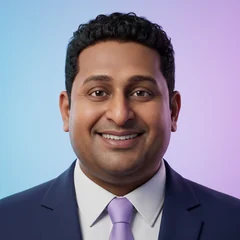
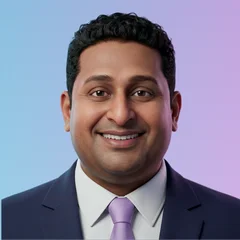
Director portraits: same framing and colour grading, real photos on home and About

diff --git a/about.html b/about.html
@@ -90,8 +90,8 @@
 <div class="wrap">
 <div class="secHead"><h2 class="l split" id="h-a3">The people leading it</h2><p class="mid ink2 r">Over 20 years of experience between them, across information systems, security, economics and management.</p></div>
 <div class="people">
-<div class="person pCard" style="background:var(--ground)"><div class="ava"><picture><source type="image/webp" srcset="assets/img/team/dilshan-photo-240.webp?v=3 240w, assets/img/team/dilshan-photo-480.webp?v=3 480w" sizes="120px"><img src="assets/img/team/dilshan-photo-480.jpg?v=3" srcset="assets/img/team/dilshan-photo-240.jpg?v=3 240w, assets/img/team/dilshan-photo-480.jpg?v=3 480w" sizes="120px" width="480" height="480" alt="Dilshan Dissanayake" loading="lazy" decoding="async"></picture></div><div><h3>Dilshan Dissanayake</h3><p class="ink2" style="margin-top:6px">Director and Chief Executive Officer</p><ul class="creds"><li style="background:#fff">MBA (General)</li><li style="background:#fff">BSc (Hons) Information Systems</li><li style="background:#fff">Certified Information Security Expert</li><li style="background:#fff">Grad. Dip. Software Engineering</li><li style="background:#fff">Grad. Dip. Network Engineering</li></ul></div></div>
-<div class="person pCard" style="background:var(--ground)"><div class="ava"><picture><source type="image/webp" srcset="assets/img/team/dimithri-photo-240.webp?v=3 240w, assets/img/team/dimithri-photo-480.webp?v=3 480w" sizes="120px"><img src="assets/img/team/dimithri-photo-480.jpg?v=3" srcset="assets/img/team/dimithri-photo-240.jpg?v=3 240w, assets/img/team/dimithri-photo-480.jpg?v=3 480w" sizes="120px" width="480" height="480" alt="Dimitri Senanayake" loading="lazy" decoding="async"></picture></div><div><h3>Dimitri Senanayake</h3><p class="ink2" style="margin-top:6px">Director and Chief Operating Officer</p><ul class="creds"><li style="background:#fff">BSc Economics and Management</li></ul></div></div>
+<div class="person pCard" style="background:var(--ground)"><div class="ava"><picture><source type="image/webp" srcset="assets/img/team/dilshan-photo-240.webp?v=4 240w, assets/img/team/dilshan-photo-480.webp?v=4 480w" sizes="120px"><img src="assets/img/team/dilshan-photo-480.jpg?v=4" srcset="assets/img/team/dilshan-photo-240.jpg?v=4 240w, assets/img/team/dilshan-photo-480.jpg?v=4 480w" sizes="120px" width="480" height="480" alt="Dilshan Dissanayake" loading="lazy" decoding="async"></picture></div><div><h3>Dilshan Dissanayake</h3><p class="ink2" style="margin-top:6px">Director and Chief Executive Officer</p><ul class="creds"><li style="background:#fff">MBA (General)</li><li style="background:#fff">BSc (Hons) Information Systems</li><li style="background:#fff">Certified Information Security Expert</li><li style="background:#fff">Grad. Dip. Software Engineering</li><li style="background:#fff">Grad. Dip. Network Engineering</li></ul></div></div>
+<div class="person pCard" style="background:var(--ground)"><div class="ava"><picture><source type="image/webp" srcset="assets/img/team/dimithri-photo-240.webp?v=4 240w, assets/img/team/dimithri-photo-480.webp?v=4 480w" sizes="120px"><img src="assets/img/team/dimithri-photo-480.jpg?v=4" srcset="assets/img/team/dimithri-photo-240.jpg?v=4 240w, assets/img/team/dimithri-photo-480.jpg?v=4 480w" sizes="120px" width="480" height="480" alt="Dimitri Senanayake" loading="lazy" decoding="async"></picture></div><div><h3>Dimitri Senanayake</h3><p class="ink2" style="margin-top:6px">Director and Chief Operating Officer</p><ul class="creds"><li style="background:#fff">BSc Economics and Management</li></ul></div></div>
 </div>
 </div>
 </section>

diff --git a/index.html b/index.html
@@ -309,8 +309,8 @@
 <div class="wrap">
 <div class="secHead"><h2 class="l split" id="h-people">The people leading it</h2><p class="mid ink2 r">Over 20 years of experience between them, across information systems, security, economics and management.</p></div>
 <div class="people">
-<div class="person r"><div class="ava art"><picture><source type="image/webp" srcset="assets/img/team/dilshan-art-300.webp 300w, assets/img/team/dilshan-art-600.webp 600w" sizes="150px"><img src="assets/img/team/dilshan-art-600.jpg" srcset="assets/img/team/dilshan-art-300.jpg 300w, assets/img/team/dilshan-art-600.jpg 600w" sizes="150px" width="600" height="600" alt="Dilshan Dissanayake" loading="lazy" decoding="async"></picture></div><div><h3>Dilshan Dissanayake</h3><p class="ink2" style="margin-top:6px">Director and Chief Executive Officer</p><ul class="creds"><li>MBA (General)</li><li>BSc (Hons) Information Systems</li><li>Certified Information Security Expert</li><li>Grad. Dip. Software Engineering</li><li>Grad. Dip. Network Engineering</li></ul></div></div>
-<div class="person r"><div class="ava art"><picture><source type="image/webp" srcset="assets/img/team/dimithri-art-300.webp 300w, assets/img/team/dimithri-art-600.webp 600w" sizes="150px"><img src="assets/img/team/dimithri-art-600.jpg" srcset="assets/img/team/dimithri-art-300.jpg 300w, assets/img/team/dimithri-art-600.jpg 600w" sizes="150px" width="600" height="600" alt="Dimitri Senanayake" loading="lazy" decoding="async"></picture></div><div><h3>Dimitri Senanayake</h3><p class="ink2" style="margin-top:6px">Director and Chief Operating Officer</p><ul class="creds"><li>BSc Economics and Management</li></ul></div></div>
+<div class="person r"><div class="ava art"><picture><source type="image/webp" srcset="assets/img/team/dilshan-photo-240.webp?v=4 240w, assets/img/team/dilshan-photo-480.webp?v=4 480w" sizes="150px"><img src="assets/img/team/dilshan-photo-480.jpg?v=4" srcset="assets/img/team/dilshan-photo-240.jpg?v=4 240w, assets/img/team/dilshan-photo-480.jpg?v=4 480w" sizes="150px" width="480" height="480" alt="Dilshan Dissanayake" loading="lazy" decoding="async"></picture></div><div><h3>Dilshan Dissanayake</h3><p class="ink2" style="margin-top:6px">Director and Chief Executive Officer</p><ul class="creds"><li>MBA (General)</li><li>BSc (Hons) Information Systems</li><li>Certified Information Security Expert</li><li>Grad. Dip. Software Engineering</li><li>Grad. Dip. Network Engineering</li></ul></div></div>
+<div class="person r"><div class="ava art"><picture><source type="image/webp" srcset="assets/img/team/dimithri-photo-240.webp?v=4 240w, assets/img/team/dimithri-photo-480.webp?v=4 480w" sizes="150px"><img src="assets/img/team/dimithri-photo-480.jpg?v=4" srcset="assets/img/team/dimithri-photo-240.jpg?v=4 240w, assets/img/team/dimithri-photo-480.jpg?v=4 480w" sizes="150px" width="480" height="480" alt="Dimitri Senanayake" loading="lazy" decoding="async"></picture></div><div><h3>Dimitri Senanayake</h3><p class="ink2" style="margin-top:6px">Director and Chief Operating Officer</p><ul class="creds"><li>BSc Economics and Management</li></ul></div></div>
 </div>
 </div>
 </section>
